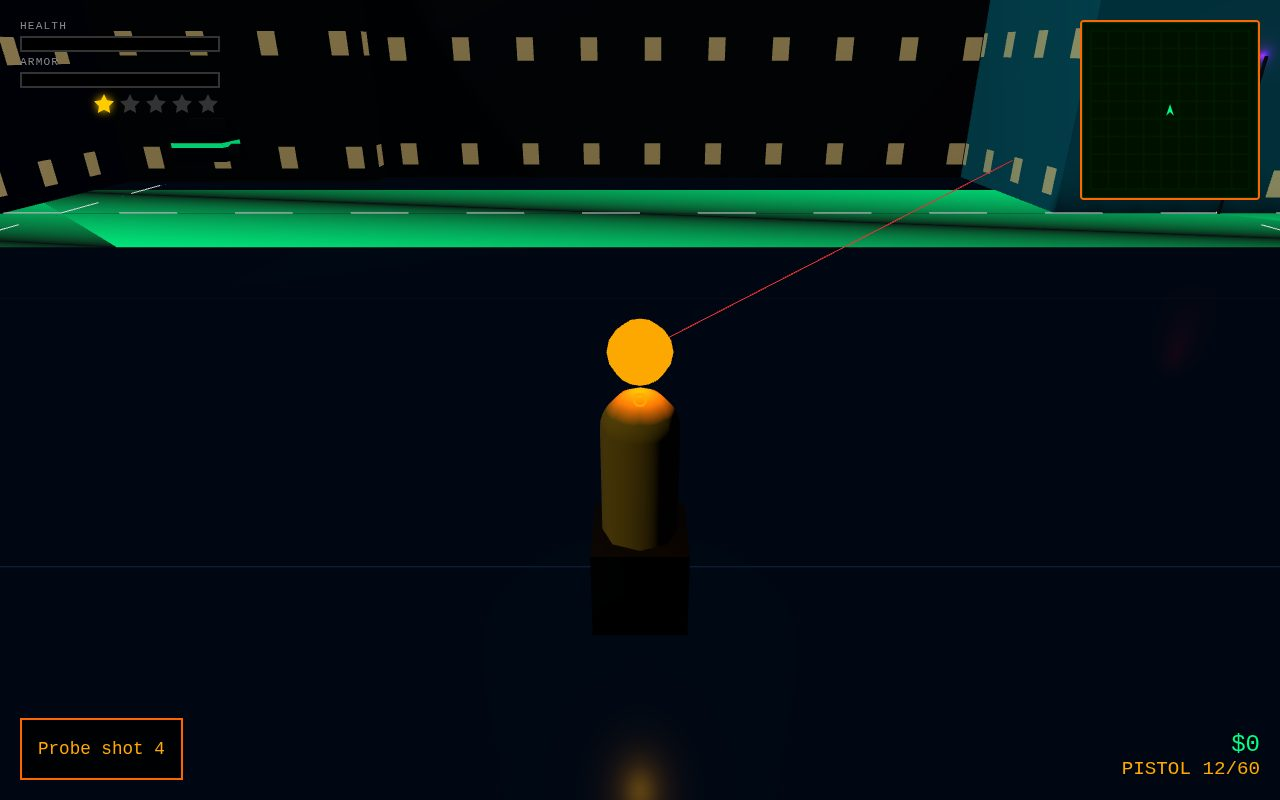
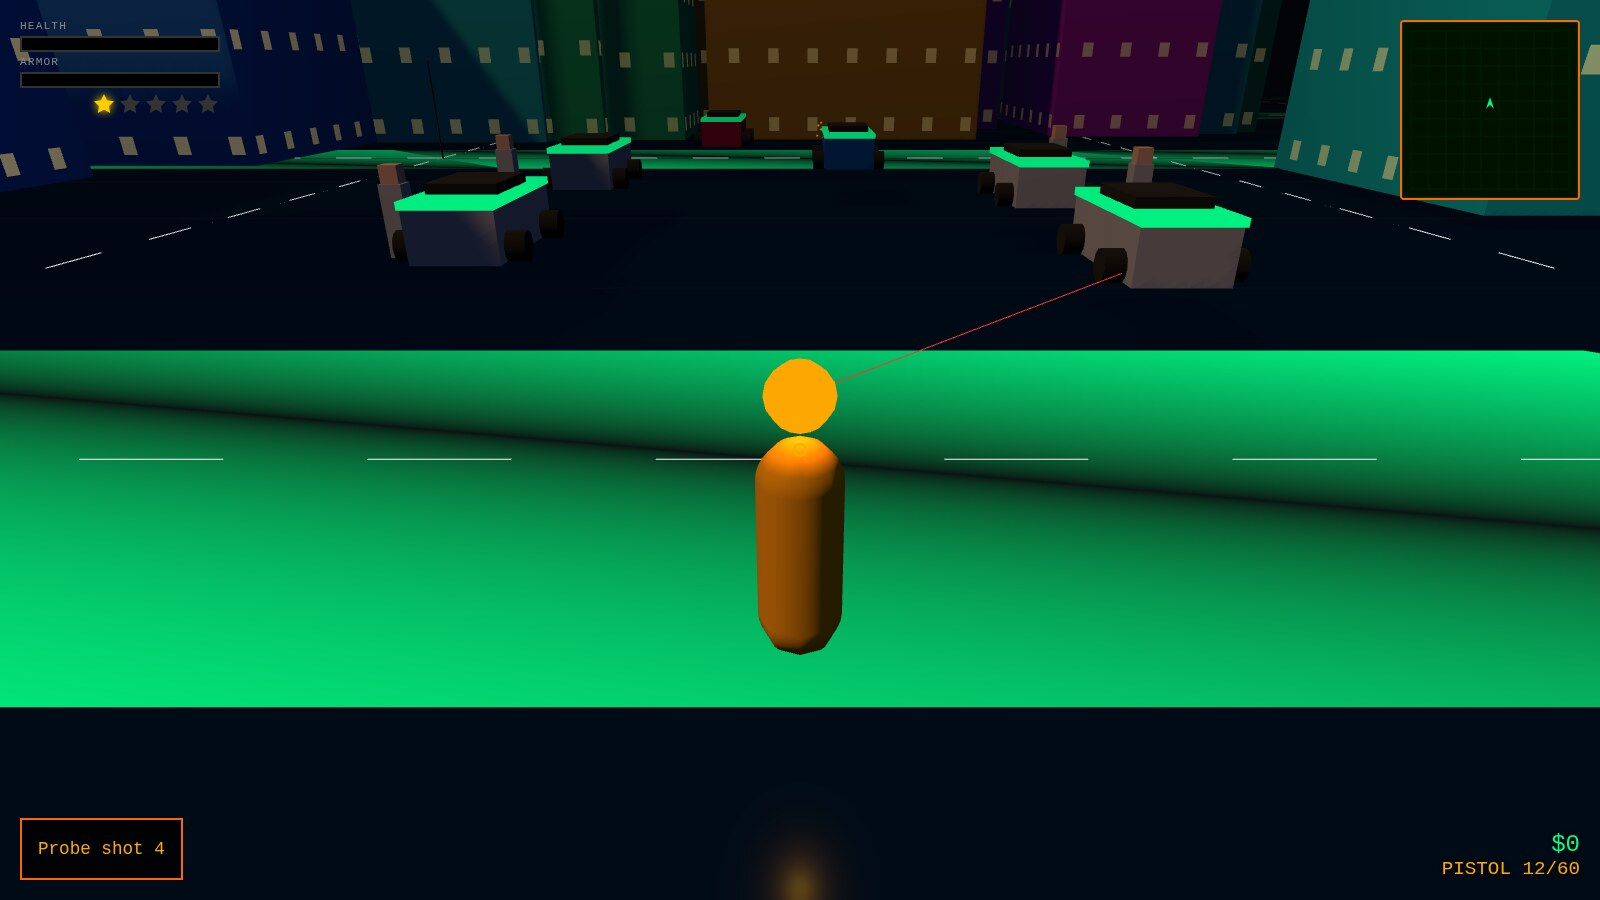
probe scenes: stage entities in view with lit backdrop skyline
- sync vehicle/ped mesh transforms at spawn so probe captures show them
- hide generated city during probes; stage a backdrop wall + flanking
  rows that frame the street corridor instead of overlapping it
- brighten probe lighting (dusk street look + ambient lift)
- raise car neon strip onto the body so it reads in stills
- recapture screenshots at 1600x900

diff --git a/game/src/core/Game.js b/game/src/core/Game.js
@@ -229,6 +229,27 @@ Game.prototype._buildProbeScene = function () {
     this.world.pedestrians = this.world.pedestrians || [];
     this.world.timeOfDay = this.timeOfDay;
 
+    // Showcase lighting: probe captures freeze a posed scene, so light it like
+    // a lit street at dusk instead of the ambient midnight defaults.
+    if (this.lighting) {
+        this.lighting.hemi.color.setHex(0x445588);
+        this.lighting.hemi.groundColor.setHex(0x1a1420);
+        this.lighting.hemi.intensity = 1.15;
+        this.lighting.dir.color.setHex(0xffcc99);
+        this.lighting.dir.intensity = 1.5;
+    }
+    // A soft ambient lift keeps the asphalt and unlit surfaces readable in the
+    // frozen frame instead of crushing them to black.
+    var ambient = new THREE.AmbientLight(0x2a3550, 0.85);
+    this.scene.add(ambient);
+
+    // Hide the generated city: probe scenes stage their own skyline so the
+    // framed corridor stays clear of random buildings. Its collision boxes
+    // are cleared too so the camera boom is not blocked by invisible walls.
+    if (this.world.group) this.world.group.visible = false;
+    if (this.world.instMesh) this.world.instMesh.visible = false;
+    this.world.collisionBounds.length = 0;
+
     var n = this.probe.n;
     if (n === 1) this._probe1(rng);
     else if (n === 2) this._probe2(rng);
@@ -253,10 +274,28 @@ Game.prototype._placeNeonBuildings = function (rng, count, cx, cz, spread) {
     }
 };
 
+// Backdrop skyline for probe captures: a far wall of buildings behind the
+// staged action plus flanking rows left and right of a clear street corridor,
+// so buildings frame the shot instead of swallowing the staged entities.
+Game.prototype._placeBackdrop = function (rng, farZ, sideZMax, countFar, countSide) {
+    var i, bx, bz;
+    for (i = 0; i < (countFar || 14); i++) {
+        bx = rng.range(-38, 38);
+        bz = farZ + rng.range(0, 14);
+        this.world.addProbeBuilding(bx, bz, rng.range(16, 36), MathUtils.randomNeonColor(rng));
+    }
+    for (i = 0; i < (countSide || 10); i++) {
+        var side = i % 2 === 0 ? -1 : 1;
+        bx = side * rng.range(24, 44);
+        bz = rng.range(10, sideZMax);
+        this.world.addProbeBuilding(bx, bz, rng.range(12, 30), MathUtils.randomNeonColor(rng));
+    }
+};
+
 Game.prototype._probe1 = function (rng) {
     // Cover shot: player on foot at an intersection, 5-star wanted, police converging from ahead.
     this.setWanted(5);
-    this.player.spawn(0, 1, 0, 0);
+    this.player.spawn(0, 1, 20, 0);
     this.player.setOnFoot(true);
 
     var cars = [];
@@ -274,8 +313,6 @@ Game.prototype._probe1 = function (rng) {
         this.world.spawnProbePedestrian(q[0], q[1], q[2], 0);
     }
 
-    this._placeNeonBuildings(rng, 24, 0, 42, 32);
-
     this._probeFxTargets = cars;
 
     this.cam.inVehicle = false;
@@ -285,6 +322,8 @@ Game.prototype._probe1 = function (rng) {
     this.cam.update(0, this.player.mesh.position, this.player.mesh.quaternion, null, this.world.collisionBounds);
     this.camera.position.copy(this.cam.position);
     this.camera.lookAt(this.cam.lookAtTarget);
+
+    this._placeBackdrop(rng, 62, 46, 16, 12);
 
     this.missionManager.showMissionText('Evade the police', true);
 };
@@ -309,9 +348,7 @@ Game.prototype._probe2 = function (rng) {
     var police = this.world.spawnProbePoliceCar(10, 1, 22, 0);
     if (police) police.setSpeed(0);
 
-    this._placeNeonBuildings(rng, 10, -24, 36, 10);
-    this._placeNeonBuildings(rng, 10, 24, 36, 10);
-    this._placeNeonBuildings(rng, 8, 0, 62, 16);
+    this._placeBackdrop(rng, 76, 62, 14, 12);
 
     this._probeFxTargets = traffic;
 
@@ -328,11 +365,11 @@ Game.prototype._probe2 = function (rng) {
 
 Game.prototype._probe3 = function (rng) {
     // Plaza combat: pedestrians at varied distances ahead, impacts and muzzle flash.
-    this.player.spawn(0, 1, 0, 0);
+    this.player.spawn(0, 1, 16, 0);
     this.player.setOnFoot(true);
     this.setWanted(2);
 
-    var peds = [[-8, 1, 15], [4, 1, 26], [-3, 1, 36], [11, 1, 22], [-12, 1, 40], [2, 1, 48]];
+    var peds = [[-6, 1, 24], [4, 1, 30], [-3, 1, 38], [6, 1, 27], [-7, 1, 44], [2, 1, 50]];
     var targets = [];
     for (var i = 0; i < peds.length; i++) {
         var q = peds[i];
@@ -340,7 +377,7 @@ Game.prototype._probe3 = function (rng) {
         targets.push(new THREE.Vector3(q[0], q[1], q[2]));
     }
 
-    this._placeNeonBuildings(rng, 16, 0, 48, 18);
+    this._placeBackdrop(rng, 66, 54, 16, 12);
 
     this._probeFxTargets = targets;
 
@@ -357,32 +394,30 @@ Game.prototype._probe3 = function (rng) {
 
 Game.prototype._probe4 = function (rng) {
     // Street canyon vista: parked curb cars, traffic, pedestrians, dense tall buildings.
-    this.player.spawn(0, 1, 0, 0);
+    this.player.spawn(0, 1, 16, 0);
     this.player.setOnFoot(true);
     this.setWanted(1);
 
-    var parked = [[-18, 1, 30, 0], [-10, 1, 38, 0], [18, 1, 28, 0], [10, 1, 42, 0]];
+    var parked = [[-7.5, 1, 28, 0], [-7.5, 1, 38, 0], [7.5, 1, 30, 0], [7.5, 1, 42, 0]];
     var targets = [];
     for (var i = 0; i < parked.length; i++) {
         var q = parked[i];
         this.world.spawnProbeParkedCar(q[0], q[1], q[2], q[3]);
         targets.push(new THREE.Vector3(q[0], q[1], q[2]));
     }
-    var spots = [[-2, 1, 50, 0], [5, 1, 60, 0]];
+    var spots = [[-2, 1, 48, 0], [4, 1, 58, 0]];
     for (var i = 0; i < spots.length; i++) {
         var s = spots[i];
         var tc = this.world.spawnProbeTrafficCar(s[0], s[1], s[2], s[3]);
         if (tc) { tc.setSpeed(6); targets.push(tc.position.clone()); }
     }
-    var peds = [[-22, 1, 34], [24, 1, 28], [-20, 1, 42], [26, 1, 38]];
+    var peds = [[-9, 1, 33], [9, 1, 29], [-9, 1, 41], [9, 1, 37]];
     for (var i = 0; i < peds.length; i++) {
         var q = peds[i];
         this.world.spawnProbePedestrian(q[0], q[1], q[2], 0);
     }
 
-    this._placeNeonBuildings(rng, 10, -30, 34, 10);
-    this._placeNeonBuildings(rng, 10, 30, 34, 10);
-    this._placeNeonBuildings(rng, 12, 0, 60, 14);
+    this._placeBackdrop(rng, 78, 66, 14, 12);
 
     this._probeFxTargets = targets;
 

diff --git a/game/src/world/World.js b/game/src/world/World.js
@@ -35,6 +35,7 @@ World.prototype.init = function () {
     this.buildingInstancer = new BuildingInstancer();
     var instMesh = this.buildingInstancer.build(this.buildings.length * 3); // room for parts
     scene.add(instMesh);
+    this.instMesh = instMesh;
     var self = this;
     this.buildings.forEach(function (b) {
         var mesh = b.makeMesh();
@@ -91,11 +92,17 @@ World.prototype.update = function (dt) {
 
 World.prototype.addVehicle = function (vehicle) {
     this.vehicles.push(vehicle);
+    // Sync the transform at spawn so probe captures and the first rendered
+    // frame show the mesh where it was placed, not at the origin.
+    vehicle.mesh.position.copy(vehicle.position);
+    vehicle.mesh.quaternion.copy(vehicle.quaternion);
     this.game.scene.add(vehicle.mesh);
 };
 
 World.prototype.addPedestrian = function (ped) {
     this.pedestrians.push(ped);
+    ped.mesh.position.copy(ped.position);
+    ped.mesh.quaternion.copy(ped.quaternion);
     this.game.scene.add(ped.mesh);
 };
 

diff --git a/game/src/entities/Car.js b/game/src/entities/Car.js
@@ -67,7 +67,7 @@ Car.prototype.init = function (x, y, z, rot) {
         new THREE.BoxGeometry(2.05, 0.18, 4.4),
         new THREE.MeshBasicMaterial({ color: 0x00ff88 })
     );
-    strip.position.set(0, 0.65, 0);
+    strip.position.set(0, 1.28, 0);
     group.add(strip);
 
     group.position.copy(this.position);
